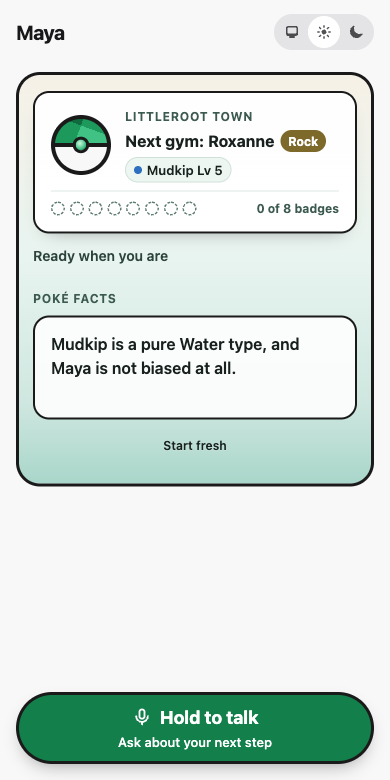
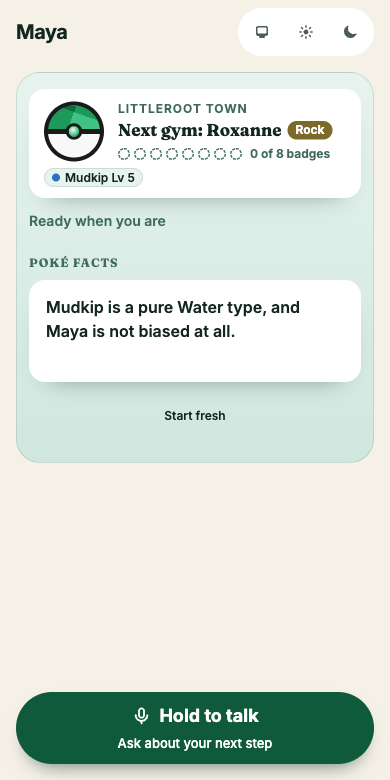
feat: refresh the homepage demo screenshots for Calm Emerald
Regenerate priv/static/images/demo/talk-idle.png and talk-listening.png
(390 x 780, same names) from the Calm Emerald Talk screen with the seed
Progress: Littleroot Town, Mudkip Lv 5, 0 badges, Roxanne next. The
homepage has no theme switch for these images, so no night variant.

Also from review: live words use the muted colour instead of opacity,
the design system doc no longer lists day headings under the action
token, and the brand SVG test rejects 8 digit hex and named colours.

Claude-Session: https://claude.ai/code/session_013YxWPZxHEJzzAqiXHjcoLn

diff --git a/assets/css/app.css b/assets/css/app.css
@@ -447,7 +447,7 @@
 }
 .turn .you { justify-self: end; background: var(--maya-surface); border-bottom-right-radius: 0.25rem; }
 /* Live words while held (ADR-009): lighter until the final transcript replaces them. */
-.turn .you.live { opacity: 0.7; }
+.turn .you.live { color: var(--maya-muted); }
 .turn .maya { justify-self: start; background: var(--maya-sea); border-bottom-left-radius: 0.25rem; }
 .turn.now { color: var(--maya-ink); font-size: var(--maya-text-base); }
 .turn.now .maya {

diff --git a/docs/design-system.md b/docs/design-system.md
@@ -36,7 +36,7 @@ Day values sit on `:root`. Night values apply on `:root[data-theme="dark"]` (the
 | `--maya-ink` | body text | `#13261f` | `#e8f3ed` |
 | `--maya-muted` | secondary text, captions | `#3f6b5b` | `#a6c3b6` |
 | `--maya-heading` | hero title and section headings (deep emerald by day, ink at night) | `#0f5a3a` | `#e8f3ed` |
-| `--maya-action` | the one action colour: buttons, links, day headings | `#0f5a3a` deep emerald | `#157a48` |
+| `--maya-action` | the one action colour: buttons and links (headings use `--maya-heading`) | `#0f5a3a` deep emerald | `#157a48` |
 | `--maya-action-ink` | text on action | `#ffffff` | `#ffffff` |
 | `--maya-line` | decorative dividers | `rgb(15 58 40 / 0.12)` | `rgb(255 255 255 / 0.08)` |
 | `--maya-hairline` | the gold hairline, night only | `transparent` | `#b58a2a` |
@@ -104,7 +104,6 @@ WCAG 2.x relative luminance. Text needs 4.5:1, a non-text cue that is the only s
 | success on bg | text | 4.74 | 8.01 |
 | error on bg | text | 5.81 | 10.64 |
 | action-ink on action | text | 8.26 | 5.37 |
-| action on bg (day headings) | text | 7.33 | not used for text |
 | listen on scene (ring) | non-text | 3.74 | 5.34 |
 | wait on scene (ring) | non-text | 3.30 | 4.66 |
 | heading on bg | text | 7.33 | 15.98 |
